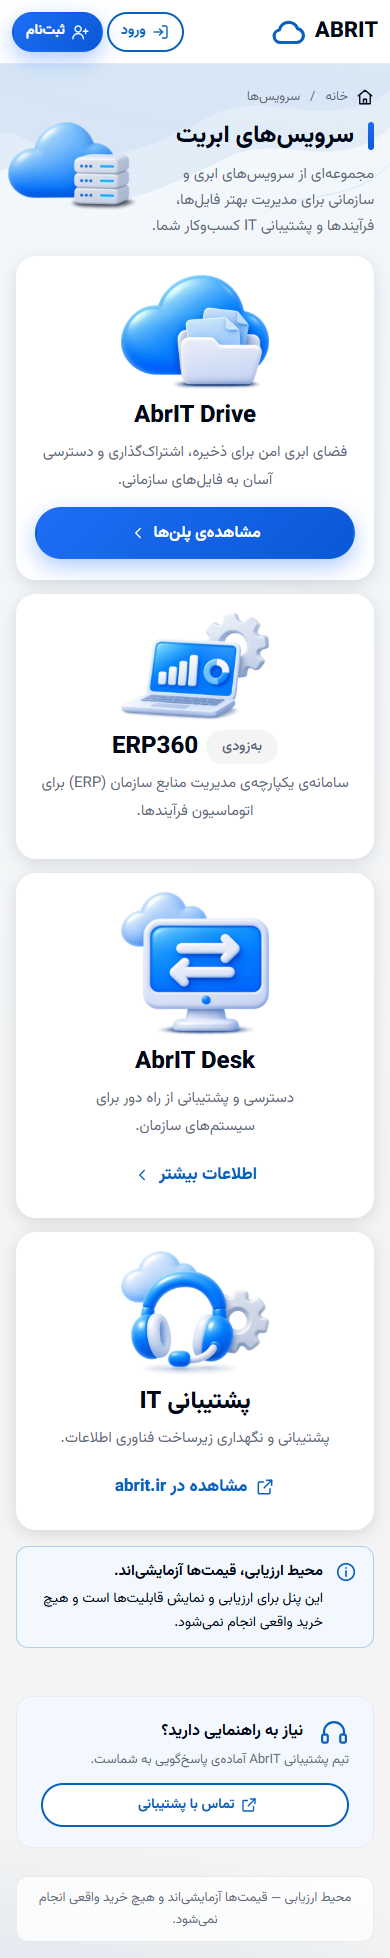
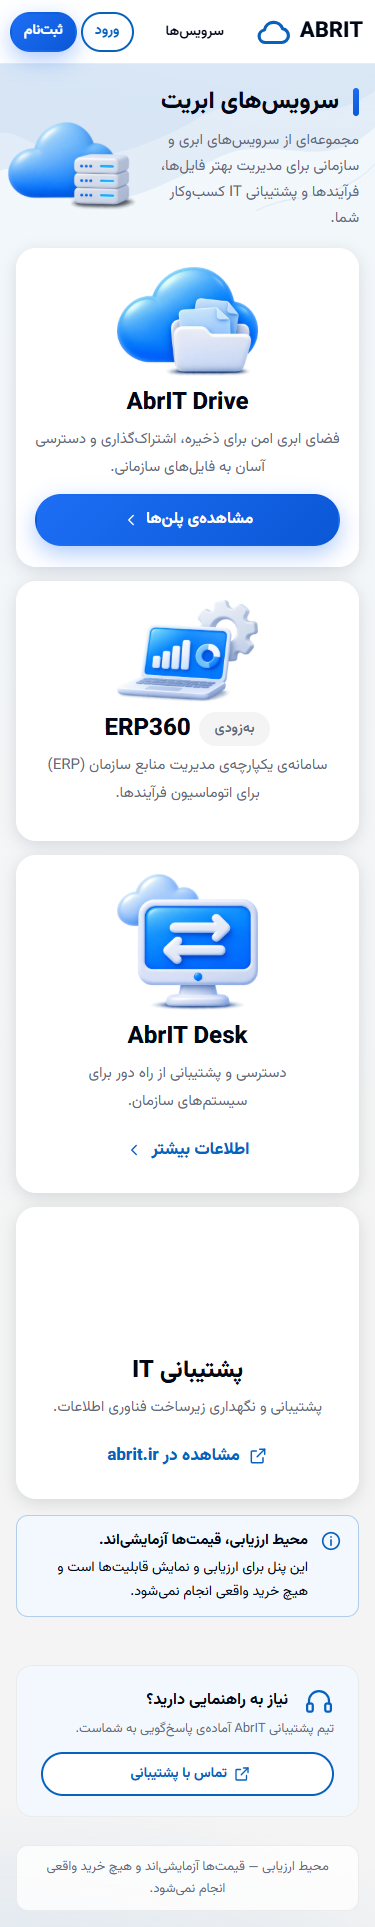
fix(ui): no sidebar on any anonymous page; one entry point, one support link
PR #17 only removed the sidebar for anonymous /services; /services/drive, /Login,
/Register etc. still rendered the full guest sidebar (خانه + سرویسها + پشتیبانی +
ورود + ثبتنام) and «پشتیبانی» in the top bar.

- every anonymous page: no sidebar/drawer/burger markup; guest menu list deleted
- top bar = logo + «سرویسها» + ورود/ثبتنام on desktop and mobile (text-only at 375px)
- «پشتیبانی» removed from the anonymous top bar; the help card strip is the only support link
- anonymous logo links to /services; breadcrumb drops its «خانه» root for anonymous visitors
- signed-in sidebar/top bar unchanged
- test covers /services, /services/drive, /Login, /Register, /ForgotPassword

diff --git a/src/AbrIT.Theme/wwwroot/css/theme.css b/src/AbrIT.Theme/wwwroot/css/theme.css
@@ -853,7 +853,7 @@ body.abr-noscroll{overflow:hidden}
 }
 
 /* =========================================================================
-   Anonymous landing (/services, not signed in): no sidebar, brand in the top bar, «سرویسها» + ورود/ثبتنام,
+   Anonymous pages (not signed in): no sidebar, brand in the top bar, «سرویسها» + ورود/ثبتنام,
    support card as a strip at the end of the page. Signed-in pages never get .abr-landing.
    ========================================================================= */
 .abr-landing .abr-shell{display:block;background:none}
@@ -867,6 +867,9 @@ body.abr-noscroll{overflow:hidden}
 @media (max-width: 640px){
   .abr-landing .abr-top--guest .abr-top__actions{display:flex}
   .abr-landing .abr-top__sep{display:none}
+  .abr-landing .abr-top__links{display:flex}
+  .abr-app.abr-landing .abr-top__links a{padding:0 8px;gap:4px;font-size:14px}
+  .abr-landing .abr-top__links .abr-ico,.abr-landing .abr-top__actions .abr-ico{display:none} /* text-only so logo + 3 links fit at 375px */
   .abr-app.abr-landing .abr-top__actions .abr-btn{min-height:40px;padding:0 12px;font-size:14px}
   .abr-landing__help .abr-helpcard{grid-template-columns:auto minmax(0,1fr);grid-template-areas:"icon title" "text text" "btn btn"}
   .abr-app .abr-landing__help .abr-btn--inverse{width:100%;margin-top:10px}

diff --git a/tests/AbrIT.Panel.Web.Tests/AcceptanceTests.cs b/tests/AbrIT.Panel.Web.Tests/AcceptanceTests.cs
@@ -116,19 +116,24 @@ public sealed partial class AcceptanceTests(SharedPanelHost shared)
         Assert.True(PanelClient.IsRedirect(root), $"anonymous / returned {(int)root.StatusCode}");
         Assert.Equal("/services", root.Headers.Location!.OriginalString);
 
-        var landing = (await guest.GetAsync("/services")).Html;
-        Assert.DoesNotContain("id=\"abr-drawer\"", landing);
-        Assert.DoesNotContain("data-abr-drawer-open", landing);
-        var topLinks = landing[landing.IndexOf("abr-top__links", StringComparison.Ordinal)..];
-        topLinks = topLinks[..topLinks.IndexOf("</nav>", StringComparison.Ordinal)];
-        Assert.Contains("سرویسها", topLinks);
-        Assert.DoesNotContain("پشتیبانی", topLinks);
-        Assert.Contains("abr-landing__help", landing);
-        Assert.Contains("href=\"/Login\"", landing);
-        Assert.Contains("href=\"/Register\"", landing);
+        // Every anonymous page: no sidebar/drawer markup, no «خانه», top bar = logo + «سرویسها» + ورود/ثبتنام,
+        // and the support card is the only support entry point.
+        foreach (var url in new[] { "/services", "/services/drive", "/Login", "/Register", "/ForgotPassword" })
+        {
+            var html = (await guest.GetAsync(url)).Html;
+            Assert.DoesNotContain("id=\"abr-drawer\"", html);
+            Assert.DoesNotContain("data-abr-drawer-open", html);
+            Assert.DoesNotContain("abr-sidenav", html);
+            Assert.DoesNotContain(">خانه<", html);
+            var header = html[html.IndexOf("<header class=\"abr-top", StringComparison.Ordinal)..];
+            header = header[..header.IndexOf("</header>", StringComparison.Ordinal)];
+            Assert.DoesNotContain("پشتیبانی", header);
+            var links = System.Text.RegularExpressions.Regex.Matches(header, "<a [^>]*href=\"([^\"]+)\"")
+                .Select(m => m.Groups[1].Value).ToArray();
+            Assert.Equal(new[] { "/services", "/services", "/Login", "/Register" }, links); // logo, سرویسها, ورود, ثبتنام
+            Assert.Single(System.Text.RegularExpressions.Regex.Matches(html, "class=\"abr-helpcard\""));
+        }
 
-        // Other anonymous pages and every signed-in page keep the sidebar.
-        Assert.Contains("id=\"abr-drawer\"", (await guest.GetAsync("/services/drive")).Html);
         using var customer = await Host.LoginAsync(PanelHost.CustomerA, PanelHost.CustomerAPassword);
         var signedInRoot = await customer.GetAsync("/", followRedirects: false);
         Assert.Equal(HttpStatusCode.OK, signedInRoot.Status);
